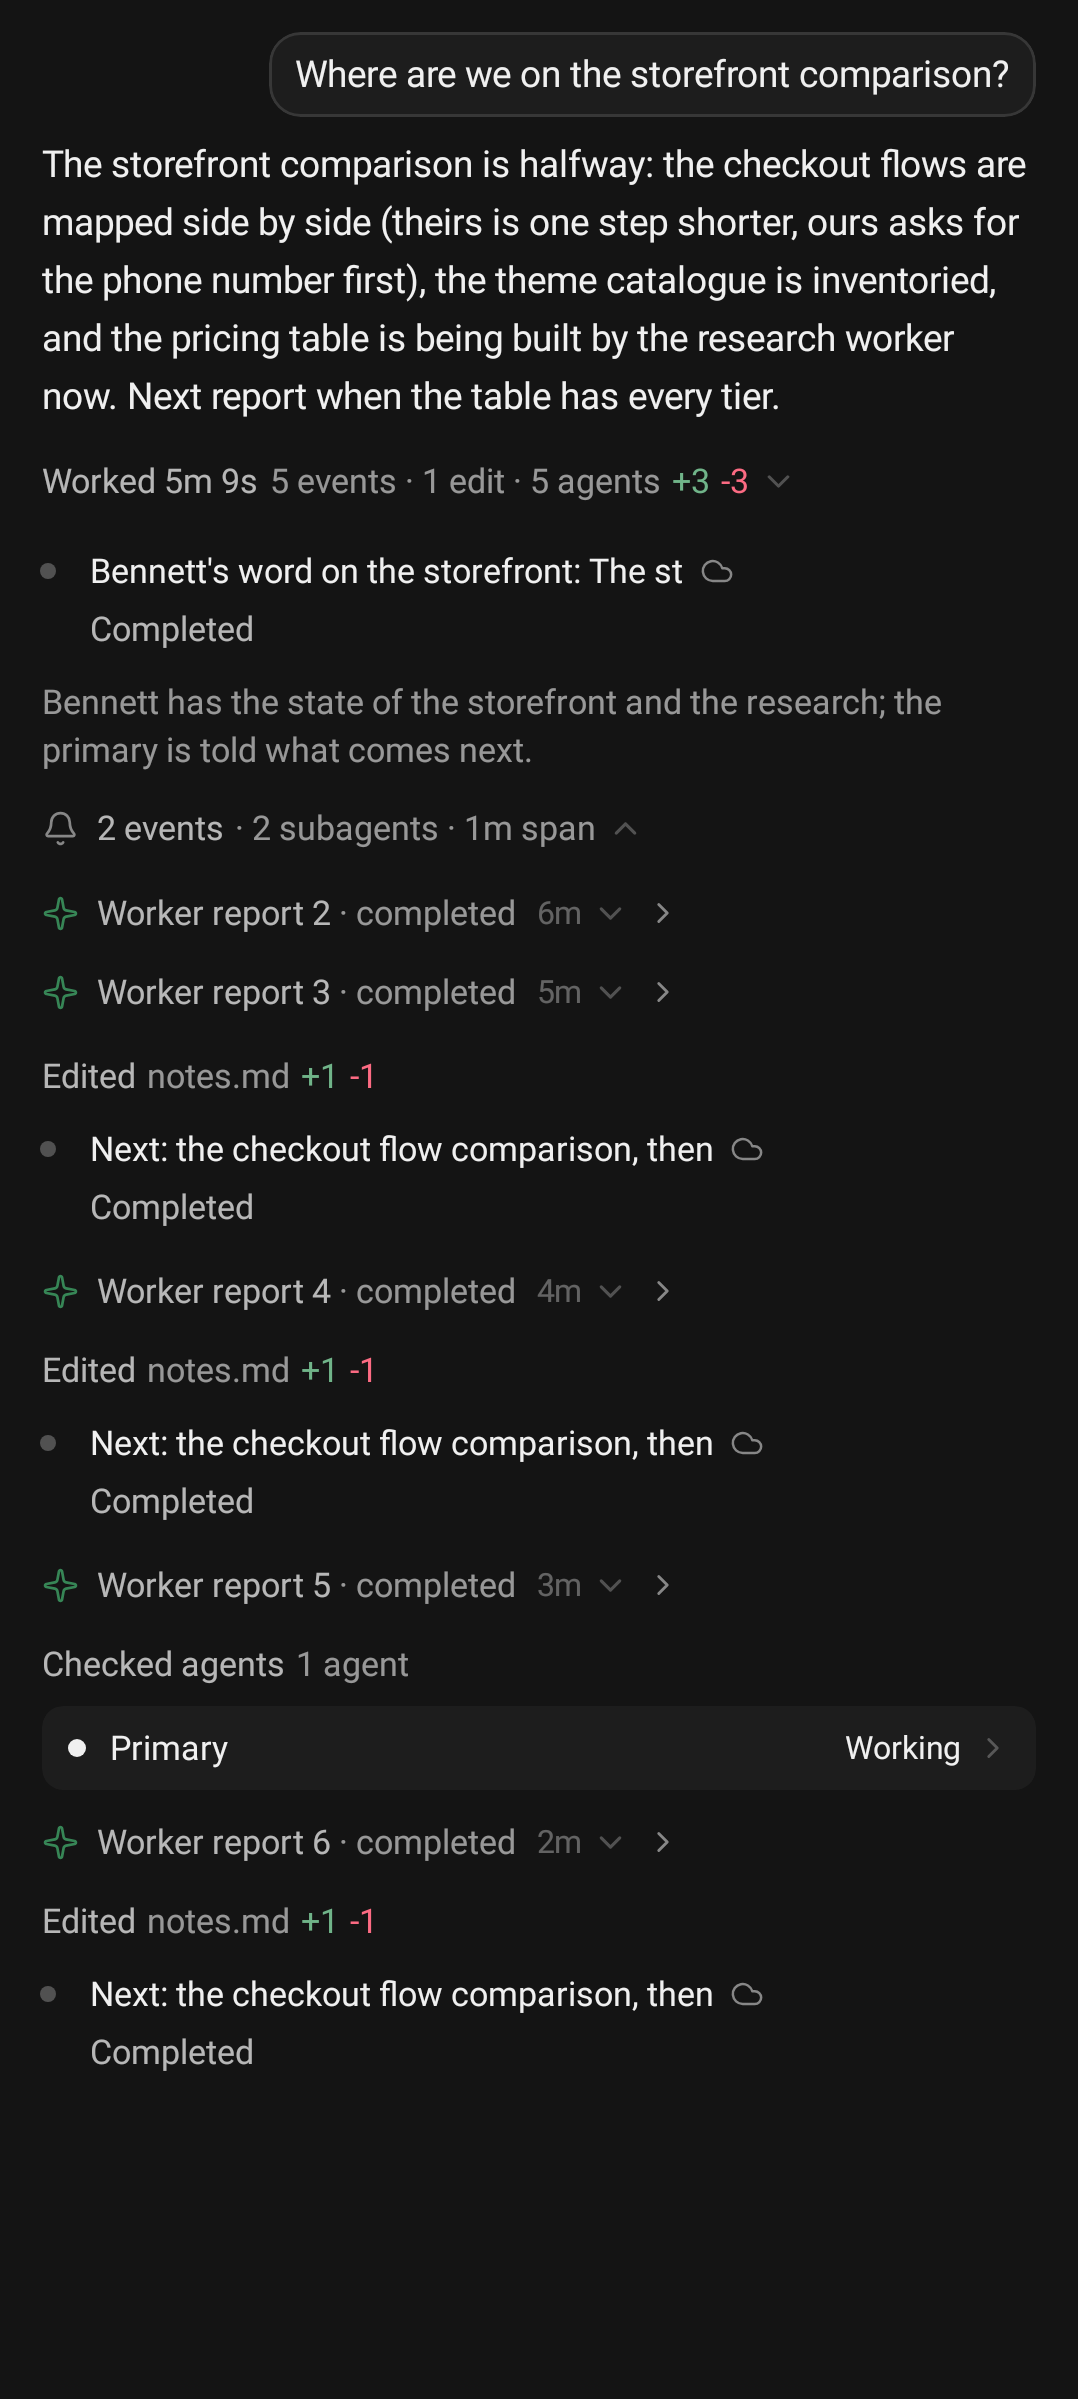
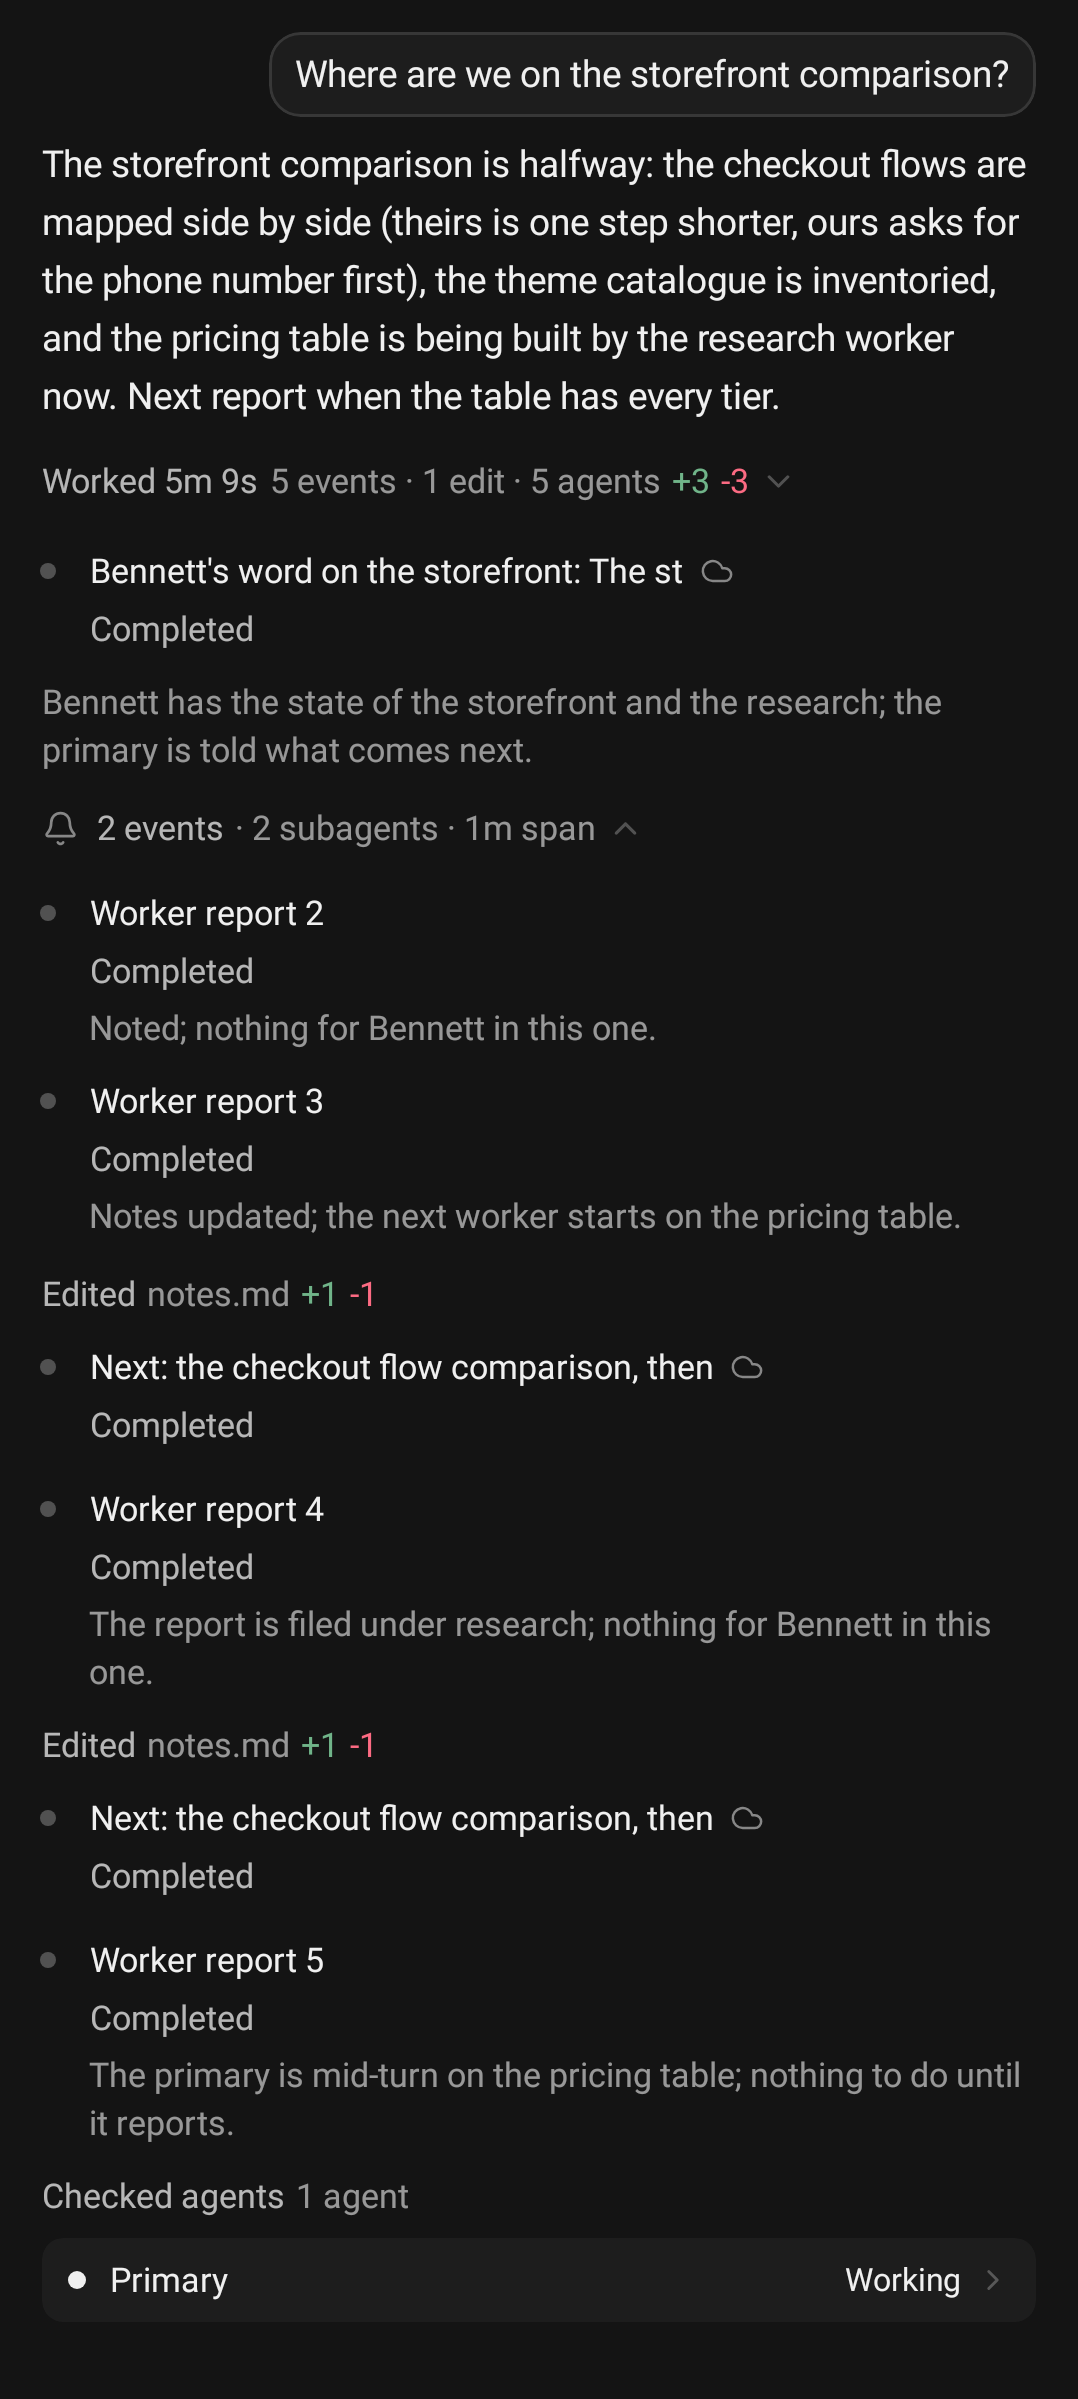
Screenshot subagent completion notices inside their Worked group
Bennett's case: two cloud tasks, a local task and a worker reporting after the
coordinator's answer, one of them twice, one failing, one answered with a
remark. 343 closed, 344 open. Re-records the event wall (73) and the Project
frames (341/342), whose subagent notices now draw as subagent rows.

diff --git a/app/src/test/java/com/cursorforandroid/screenshots/SubagentNoticesScreenshotTest.kt b/app/src/test/java/com/cursorforandroid/screenshots/SubagentNoticesScreenshotTest.kt
@@ -1,0 +1,219 @@
+package com.cursorforandroid.screenshots
+
+import androidx.activity.ComponentActivity
+import androidx.compose.foundation.background
+import androidx.compose.foundation.layout.Arrangement
+import androidx.compose.foundation.layout.Column
+import androidx.compose.foundation.layout.fillMaxSize
+import androidx.compose.foundation.layout.padding
+import androidx.compose.material3.ExperimentalMaterial3Api
+import androidx.compose.material3.LocalRippleConfiguration
+import androidx.compose.runtime.CompositionLocalProvider
+import androidx.compose.ui.Modifier
+import androidx.compose.ui.test.assertCountEquals
+import androidx.compose.ui.test.hasClickAction
+import androidx.compose.ui.test.hasParent
+import androidx.compose.ui.test.hasTestTag
+import androidx.compose.ui.test.junit4.createAndroidComposeRule
+import androidx.compose.ui.test.onAllNodesWithContentDescription
+import androidx.compose.ui.test.onAllNodesWithText
+import androidx.compose.ui.test.onNodeWithContentDescription
+import androidx.compose.ui.test.onNodeWithText
+import androidx.compose.ui.test.performClick
+import androidx.compose.ui.unit.dp
+import androidx.test.ext.junit.runners.AndroidJUnit4
+import com.cursorforandroid.domain.ActivityGroup
+import com.cursorforandroid.domain.Agent
+import com.cursorforandroid.domain.AgentLifecycle
+import com.cursorforandroid.domain.AssistantMessage
+import com.cursorforandroid.domain.EnvType
+import com.cursorforandroid.domain.RunFooter
+import com.cursorforandroid.domain.RunStatus
+import com.cursorforandroid.domain.SubagentPlacement
+import com.cursorforandroid.domain.SystemNotifications
+import com.cursorforandroid.domain.ThinkingBlock
+import com.cursorforandroid.domain.TimelineItem
+import com.cursorforandroid.domain.ToolCall
+import com.cursorforandroid.domain.ToolKind
+import com.cursorforandroid.domain.ToolPayload
+import com.cursorforandroid.domain.TranscriptPresenter
+import com.cursorforandroid.domain.TranscriptRow
+import com.cursorforandroid.domain.UserMessage
+import com.cursorforandroid.domain.WorkerStatus
+import com.cursorforandroid.fixtures.LiveModelCatalog
+import com.cursorforandroid.ui.conversation.LocalTranscriptControls
+import com.cursorforandroid.ui.conversation.TranscriptControls
+import com.cursorforandroid.ui.conversation.TranscriptRowView
+import com.cursorforandroid.ui.theme.CursorTheme
+import com.cursorforandroid.ui.theme.ThemeMode
+import com.cursorforandroid.util.AppClock
+import com.github.takahirom.roborazzi.ExperimentalRoborazziApi
+import com.github.takahirom.roborazzi.RoborazziOptions
+import com.github.takahirom.roborazzi.captureScreenRoboImage
+import com.google.common.truth.Truth.assertThat
+import org.junit.After
+import org.junit.Before
+import org.junit.Rule
+import org.junit.Test
+import org.junit.runner.RunWith
+import org.robolectric.annotation.Config
+import org.robolectric.annotation.GraphicsMode
+import java.io.File
+
+/**
+ * The reports of a Project coordinator's subagents and workers as they come in after its answer (Bennett's chat):
+ * inside the group of work they arrived in, the run of them behind one line. A cloud subagent reported twice, a
+ * second cloud subagent, a worker whose notice the coordinator answered with a remark, and a local subagent that
+ * failed — closed, then open. Written to `screenshots/` and compared pixel for pixel in CI.
+ */
+@RunWith(AndroidJUnit4::class)
+@GraphicsMode(GraphicsMode.Mode.NATIVE)
+@Config(sdk = [35], qualifiers = "w411dp-h914dp-night-420dpi")
+class SubagentNoticesScreenshotTest {
+
+    @get:Rule
+    val compose = createAndroidComposeRule<ComponentActivity>()
+
+    private val outDir = File(System.getProperty("user.dir"), "../screenshots").normalize()
+    private val at = 1_789_340_000_000L
+    private val minute = 60_000L
+
+    @Before
+    fun pinClock() {
+        AppClock.nowMillis = { at + 14 * minute }
+    }
+
+    @After
+    fun unpinClock() {
+        AppClock.nowMillis = System::currentTimeMillis
+    }
+
+    @OptIn(ExperimentalRoborazziApi::class)
+    private fun capture(name: String) {
+        compose.waitForIdle()
+        captureScreenRoboImage(File(outDir, "$name.png").path, RoborazziOptions())
+    }
+
+    private fun task(id: String, title: String, model: String, agentId: String? = null, environment: String) = ToolCall(
+        id, "task", ToolKind.Task, ToolCall.STATUS_COMPLETED, title,
+        payload = ToolPayload.Subagent(title, agentId = agentId, model = model, environment = environment, isBackground = true),
+    )
+
+    private fun create(id: String, agentId: String, name: String, model: String) = ToolCall(
+        id, "create_agent", ToolKind.Coordinator, ToolCall.STATUS_COMPLETED, name,
+        payload = ToolPayload.WorkerAction(ToolPayload.WorkerAction.Kind.Created, listOf(WorkerStatus(agentId, name)), text = name, title = name, reported = true, model = model),
+        linkedAgentIds = listOf(agentId),
+    )
+
+    /** One injected turn as Cursor writes it: the finished task's header and report, then its instruction to the model. */
+    private fun notice(id: String, minutes: Long, title: String, detail: String, kind: String = "subagent", status: String = "success", agentId: String? = null, callId: String? = null): List<TimelineItem> {
+        val header = listOfNotNull("kind: $kind", "status: $status", "title: $title", callId?.let { "tool_call_id: $it" }, agentId?.let { "agent_id: $it" })
+        val hint = agentId?.let { "\n\nAgent ID: $it" }.orEmpty()
+        val text = "<timestamp>Thursday, Sep 24, 2026</timestamp>\n<system_notification>\nThe following task has finished. If you were already aware, ignore this notification and do not restate prior responses.\n\n" +
+            "<task>\n${header.joinToString("\n")}\ndetail: This is the last output of the $kind:\n\n$detail$hint\n</task>\n</system_notification>\n" +
+            "<user_query>Perform any necessary follow-up actions in response to the subagent completion above. If no follow-up work is needed, no further action is required.</user_query>"
+        return SystemNotifications.parse(id, text, at + minutes * minute)!!.items
+    }
+
+    private fun silent(id: String, minutes: Long) = RunFooter("$id-footer", "run-$id", RunStatus.FINISHED, 4_000, emptyList(), endedAtMillis = at + minutes * minute + 4_000)
+
+    private val items: List<TimelineItem> = listOf(
+        UserMessage("u1", "Is the edge real, and is it big enough to fund? Put a number on it.", at - 2 * minute),
+        ActivityGroup(
+            "g1",
+            listOf(
+                ThinkingBlock("Two checks in the cloud, the rebate tiers here, the ledger to a worker.", durationSeconds = 2),
+                task("t1", "Track big-pool lone quoters daily", "composer-2.5", agentId = "bc-q1", environment = "SUBAGENT_EXECUTION_ENVIRONMENT_CLOUD"),
+                task("t2", "Record Kalshi LIP side coverage", "claude-opus-5-5-high", agentId = "bc-k2", environment = "SUBAGENT_EXECUTION_ENVIRONMENT_CLOUD"),
+                task("t3", "Price the maker rebate tiers", "gpt-5.6-terra-high", environment = "SUBAGENT_EXECUTION_ENVIRONMENT_LOCAL"),
+                create("c1", "bc-f1", "Backfill the fills ledger", "composer-2.5"),
+                ToolCall(
+                    "m1", "SendMessage", ToolKind.Coordinator, ToolCall.STATUS_COMPLETED, "The edge",
+                    payload = ToolPayload.CoordinatorMessage("So: the edge is very likely real and very likely large enough. The remaining risk is execution at breadth, which is the part paper can only take so far and a small funded book settles. I expect \$1,000 a day."),
+                ),
+            ),
+        ),
+        AssistantMessage("a1", "Answered: yes, very likely, with the number unchanged at 70 and the remaining 30 named as execution-at-breadth questions rather than existence questions. Nothing on the board changed."),
+        RunFooter("f1", "run-1", RunStatus.FINISHED, 63_000, emptyList(), endedAtMillis = at + 63_000),
+    ) +
+        notice("n1", 8, "Track big-pool lone quoters daily", "Seven lone quoters hold 41% of big-pool depth; the daily tracker is committed.", agentId = "bc-q1", callId = "t1") + silent("n1", 8) +
+        notice("n2", 10, "Record Kalshi LIP side coverage", "Coverage recorded for both sides of 212 markets.", agentId = "bc-k2", callId = "t2") + silent("n2", 10) +
+        notice("n3", 11, "Record Kalshi LIP side coverage", "Coverage re-recorded after the 14:00 roll; 3 markets flipped sides.", agentId = "bc-k2", callId = "t2") + silent("n3", 11) +
+        notice("n4", 12, "Backfill the fills ledger", "Backfilled 18 months of fills; PR #88 is merged.", kind = "worker", agentId = "bc-f1") +
+        listOf(AssistantMessage("n4-remark", "Noted: the ledger is complete back to March 2025."), silent("n4", 12)) +
+        notice("n5", 12, "Price the maker rebate tiers", "The rebate schedule endpoint returned 403 for every tier after two retries.", status = "error", callId = "t3") + silent("n5", 12)
+
+    private fun agent(id: String, name: String, modelId: String) = Agent(
+        id = id, name = name, lifecycle = AgentLifecycle.ACTIVE, runStatus = RunStatus.FINISHED, envType = EnvType.CLOUD, envName = null,
+        url = "https://cursor.com/agents/$id", createdAtMillis = at, updatedAtMillis = at, latestRunId = "run-$id", repoUrl = null, startingRef = null,
+        modelId = modelId,
+    )
+
+    private val agents = mapOf(
+        "bc-q1" to agent("bc-q1", "Track big-pool lone quoters daily", "composer-2.5"),
+        "bc-k2" to agent("bc-k2", "Record Kalshi LIP side coverage", "claude-opus-5-5-high"),
+        "bc-f1" to agent("bc-f1", "Backfill the fills ledger", "composer-2.5"),
+    )
+
+    private val presented by lazy { TranscriptPresenter().present(items, coordinatorMode = true, runActive = false) }
+
+    @OptIn(ExperimentalMaterial3Api::class)
+    private fun show() {
+        val controls = TranscriptControls(
+            onOpenAgent = {}, agentById = { agents[it] }, coordinatorMode = true, models = LiveModelCatalog.models,
+            subagents = presented.subagents, placement = SubagentPlacement.Cloud,
+        )
+        compose.setContent {
+            CursorTheme(mode = ThemeMode.Dark) {
+                CompositionLocalProvider(LocalRippleConfiguration provides null, LocalTranscriptControls provides controls) {
+                    Column(
+                        Modifier.fillMaxSize().background(CursorTheme.colors.canvas).padding(horizontal = 16.dp, vertical = 12.dp),
+                        verticalArrangement = Arrangement.spacedBy(10.dp),
+                    ) {
+                        presented.rows.forEach { TranscriptRowView(it) }
+                    }
+                }
+            }
+        }
+        compose.waitUntil(10_000) { compose.onAllNodesWithText("I expect", substring = true).fetchSemanticsNodes().isNotEmpty() }
+    }
+
+    /** Opens both stretches through their own lines — the calls that started the children, then their notices — and the group of notices. */
+    private fun openNotices() {
+        val lines = compose.onAllNodes(hasClickAction() and hasParent(hasTestTag("stretch")))
+        repeat(lines.fetchSemanticsNodes().size) { lines[it].performClick() }
+        compose.waitUntil(10_000) { compose.onAllNodes(hasTestTag("event-group")).fetchSemanticsNodes().size == 1 }
+        compose.onNodeWithContentDescription("Show events").performClick()
+        compose.waitForIdle()
+    }
+
+    @Test
+    fun closed() {
+        // The notices are inside the group of work they arrived in — the stretch after the answer — behind one line.
+        val stretches = presented.rows.filterIsInstance<TranscriptRow.Stretch>()
+        assertThat(stretches.map { it.summary.text }).containsExactly("4 agents · 1 thought", "Worked 1m 23s · 5 events · 1 note").inOrder()
+        val group = stretches.last().entries.filterIsInstance<TranscriptRow.Entry.Events>().single().group
+        assertThat(group.summary.text).isEqualTo("5 events · 3 subagents · 1 worker · 4m span")
+        assertThat(presented.rows.none { it is TranscriptRow.Event || it is TranscriptRow.Events }).isTrue()
+        show()
+        compose.onAllNodes(hasTestTag("event-row")).assertCountEquals(0)
+        capture("343_subagent_notices_closed")
+    }
+
+    @Test
+    fun opened() {
+        show()
+        openNotices()
+        compose.waitUntil(10_000) { compose.onAllNodes(hasTestTag("subagent-notice"), useUnmergedTree = true).fetchSemanticsNodes().size == 4 }
+        // Each notice is its subagent's row, as the call that started it is drawn: the repeat once, no count, no age.
+        listOf("Track big-pool lone quoters daily", "Record Kalshi LIP side coverage", "Backfill the fills ledger").forEach { title ->
+            compose.onAllNodesWithContentDescription("Subagent $title, Completed").assertCountEquals(2)
+        }
+        compose.onAllNodesWithContentDescription("Subagent Price the maker rebate tiers, Stopped with error").assertCountEquals(2)
+        assertThat(compose.onAllNodesWithText("\u00D72").fetchSemanticsNodes()).isEmpty()
+        assertThat(compose.onAllNodesWithText(" \u00B7 completed").fetchSemanticsNodes()).isEmpty()
+        assertThat(compose.onAllNodes(hasTestTag("event-time"), useUnmergedTree = true).fetchSemanticsNodes()).isEmpty()
+        compose.onNodeWithText("Noted: the ledger is complete back to March 2025.").assertExists()
+        capture("344_subagent_notices_open")
+    }
+}
